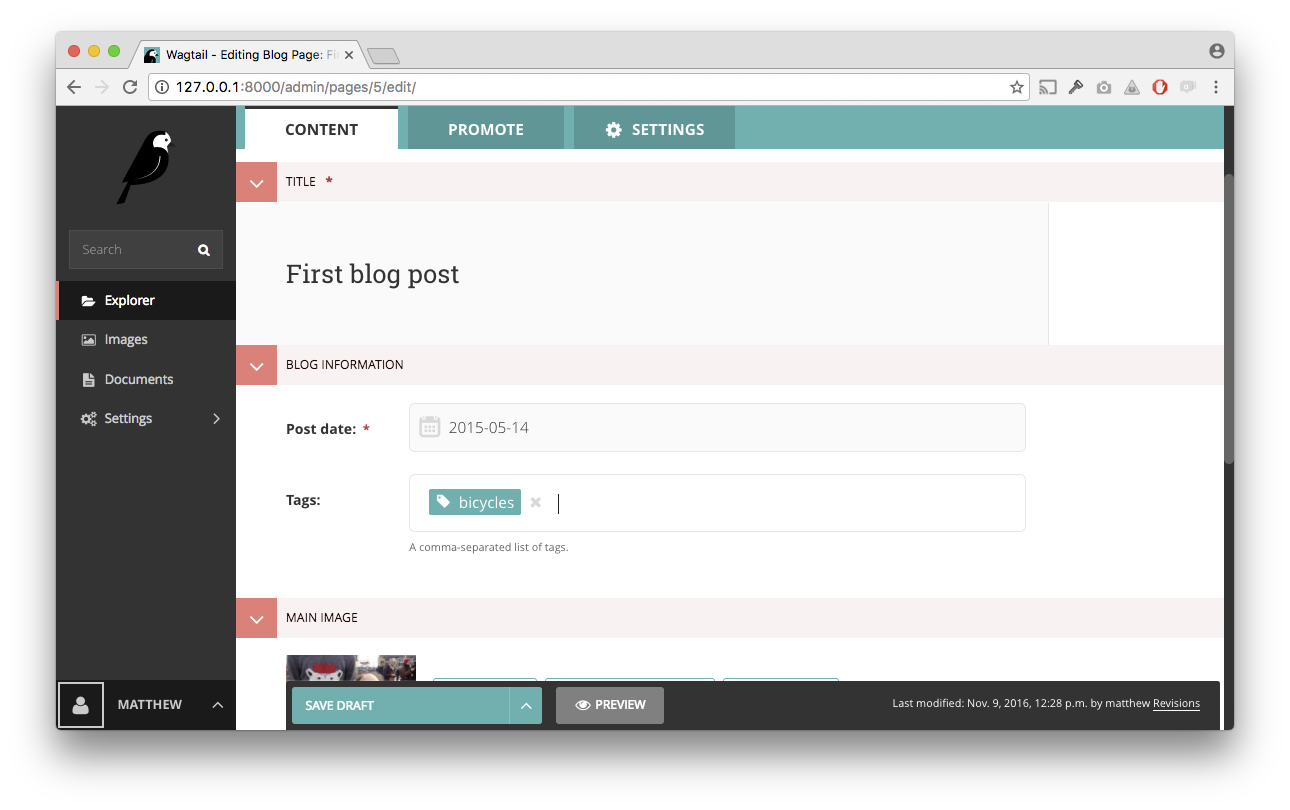
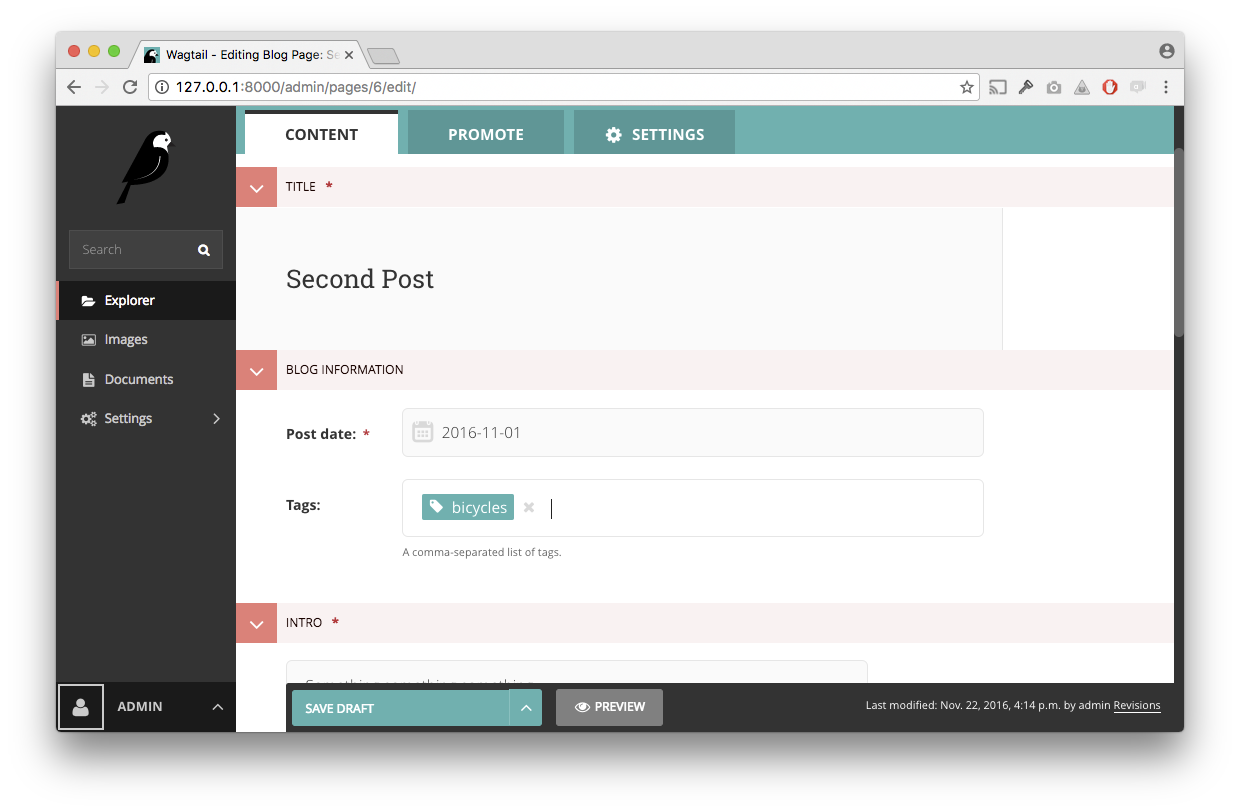
Add image gallery / InlinePanel section to tutorial

diff --git a/docs/getting_started/tutorial.rst b/docs/getting_started/tutorial.rst
@@ -80,7 +80,7 @@ Edit ``home/models.py`` as follows, to add a ``body`` field to the model:
         body = RichTextField(blank=True)
 
         content_panels = Page.content_panels + [
-            FieldPanel('body', classname="full")
+            FieldPanel('body', classname="full"),
         ]
 
 ``body`` is defined as ``RichTextField``, a special Wagtail field. You
@@ -236,7 +236,7 @@ Now we need a model and template for our blog posts. In ``blog/models.py``:
         content_panels = Page.content_panels + [
             FieldPanel('date'),
             FieldPanel('intro'),
-            FieldPanel('body', classname="full")
+            FieldPanel('body', classname="full"),
         ]
 
 Run ``python manage.py makemigrations`` and ``python manage.py migrate``.
@@ -311,7 +311,7 @@ Take another look at the guts of ``BlogIndexPage:``
 
 Every "page" in Wagtail can call out to its parent or children
 from its own position in the hierarchy. But why do we have to
-specify ``post.specific.intro`` rather than ``post.intro?``
+specify ``post.specific.intro`` rather than ``post.intro``?
 This has to do with the way we defined our model:
 
 ``class BlogPage(Page):``
@@ -390,31 +390,28 @@ Now try unpublishing one of your posts - it should disappear from the blog index
 page. The remaining posts should now be sorted with the most recently modified
 posts first.
 
-Image support
-~~~~~~~~~~~~~
+Images
+~~~~~~
 
-Wagtail provides support for images out of the box. To add them to
-your ``BlogPage`` model:
+Let's add the ability to attach an image gallery to our blog posts. While it's possible to simply insert images into the ``body`` rich text field, there are several advantages to setting up our gallery images as a new dedicated object type within the database - this way, you have full control of the layout and styling of the images on the template, rather than having to lay them out in a particular way within the rich text field. It also makes it possible for the images to be used elsewhere, independently of the blog text - for example, displaying a thumbnail on the blog index page.
+
+Add a new ``BlogPageGalleryImage`` model to ``models.py``:
 
 .. code-block:: python
 
     from django.db import models
 
-    from wagtail.wagtailcore.models import Page
+    from modelcluster.fields import ParentalKey
+
+    from wagtail.wagtailcore.models import Page, Orderable
     from wagtail.wagtailcore.fields import RichTextField
-    from wagtail.wagtailadmin.edit_handlers import FieldPanel
+    from wagtail.wagtailadmin.edit_handlers import FieldPanel, InlinePanel
     from wagtail.wagtailimages.edit_handlers import ImageChooserPanel
     from wagtail.wagtailsearch import index
 
+    # ...
 
     class BlogPage(Page):
-        main_image = models.ForeignKey(
-            'wagtailimages.Image',
-            null=True,
-            blank=True,
-            on_delete=models.SET_NULL,
-            related_name='+'
-        )
         date = models.DateField("Post date")
         intro = models.CharField(max_length=250)
         body = RichTextField(blank=True)
@@ -426,14 +423,41 @@ your ``BlogPage`` model:
 
         content_panels = Page.content_panels + [
             FieldPanel('date'),
-            ImageChooserPanel('main_image'),
             FieldPanel('intro'),
-            FieldPanel('body'),
+            FieldPanel('body', classname="full"),
+            InlinePanel('gallery_images', label="Gallery images"),
         ]
+
+
+    class BlogPageGalleryImage(Orderable):
+        page = ParentalKey(BlogPage, related_name='gallery_images')
+        image = models.ForeignKey(
+            'wagtailimages.Image', on_delete=models.CASCADE, related_name='+'
+        )
+        caption = models.CharField(blank=True, max_length=250)
+
+        panels = [
+            ImageChooserPanel('image'),
+            FieldPanel('caption'),
+        ]
+
 
 Run ``python manage.py makemigrations`` and ``python manage.py migrate``.
 
-Adjust your blog page template to include the image:
+There are a few new concepts here, so let's take them one at a time:
+
+Inheriting from ``Orderable`` adds a ``sort_order`` field to the model, to keep track of the ordering of images in the gallery.
+
+The ``ParentalKey`` to ``BlogPage`` is what attaches the gallery images to a specific page. A ``ParentalKey`` works similarly to a ``ForeignKey``, but also defines ``BlogPageGalleryImage`` as a "child" of the ``BlogPage`` model, so that it's treated as a fundamental part of the page in operations like submitting for moderation, and tracking revision history.
+
+``image`` is a ``ForeignKey`` to Wagtail's built-in ``Image`` model, where the images themselves are stored. This comes with a dedicated panel type, ``ImageChooserPanel``, which provides a pop-up interface for choosing an existing image or uploading a new one. This way, we allow an image to exist in multiple galleries - effectively, we've created a many-to-many relationship between pages and images.
+
+Specifying ``on_delete=models.CASCADE`` on the foreign key means that if the image is deleted from the system, the gallery entry is deleted as well. (In other situations, it might be appropriate to leave the entry in place - for example, if an "our staff" page included a list of people with headshots, and one of those photos was deleted, we'd rather leave the person in place on the page without a photo. In this case, we'd set the foreign key to ``blank=True, null=True, on_delete=models.SET_NULL``.)
+
+Finally, adding the ``InlinePanel`` to ``BlogPage.content_panels`` makes the gallery images available on the editing interface for ``BlogPage``.
+
+
+Adjust your blog page template to include the images:
 
 .. code-block:: html+django
 
@@ -447,20 +471,76 @@ Adjust your blog page template to include the image:
         <h1>{{ page.title }}</h1>
         <p class="meta">{{ page.date }}</p>
 
-        {% if page.main_image %}
-            {% image page.main_image width-400 %}
-        {% endif %}
-
         <div class="intro">{{ page.intro }}</div>
 
         {{ page.body|richtext }}
+
+        {% for item in page.gallery_images.all %}
+            <div style="float: left; margin: 10px">
+                {% image item.image fill-320x240 %}
+                <p>{{ item.caption }}</p>
+            </div>
+        {% endfor %}
+
+        <p><a href="{{ page.get_parent.url }}">Return to blog</a></p>
+
     {% endblock %}
 
-.. figure:: ../_static/images/tutorial/tutorial_6.png
+Here we use the ``{% image %}`` tag (which exists in the ``wagtailimages_tags`` library, imported at the top of the template) to insert an ``<img>`` element, with a ``fill-320x240`` parameter to indicate that the image should be resized and cropped to fill a 320x240 rectangle. You can read more about using images in templates in the :doc:`docs <../topics/images>`.
+
+.. figure:: ../_static/images/tutorial/tutorial_6.jpg
    :alt: A blog post sample
 
-You can read more about using images in templates in the
-:doc:`docs <../topics/images>`.
+Since our gallery images are database objects in their own right, we can now query and re-use them independently of the blog post body. Let's define a ``main_image`` method, which returns the image from the first gallery item (or ``None`` if no gallery items exist):
+
+.. code-block:: python
+
+    class BlogPage(Page):
+        date = models.DateField("Post date")
+        intro = models.CharField(max_length=250)
+        body = RichTextField(blank=True)
+
+        def main_image(self):
+            gallery_item = self.gallery_images.first()
+            if gallery_item:
+                return gallery_item.image
+            else:
+                return None
+
+        search_fields = Page.search_fields + [
+            index.SearchField('intro'),
+            index.SearchField('body'),
+        ]
+
+        content_panels = Page.content_panels + [
+            FieldPanel('date'),
+            FieldPanel('intro'),
+            FieldPanel('body', classname="full"),
+            InlinePanel('gallery_images', label="Gallery images"),
+        ]
+
+
+This method is now available from our templates. Update ``blog_index_page.html`` to include the main image as a thumbnail alongside each post:
+
+.. code-block:: html+django
+
+    {% load wagtailcore_tags wagtailimages_tags %}
+
+    ...
+
+    {% for post in page.get_children %}
+        {% with post=post.specific %}
+            <h2><a href="{% pageurl post %}">{{ post.title }}</a></h2>
+
+            {% with post.main_image as main_image %}
+                {% if main_image %}{% image main_image fill-160x100 %}{% endif %}
+            {% endwith %}
+
+            <p>{{ post.intro }}</p>
+            {{ post.body|richtext }}
+        {% endwith %}
+    {% endfor %}
+
 
 
 Tagging Posts
@@ -478,13 +558,13 @@ First, alter ``models.py`` once more:
 
     from django.db import models
 
-    from modelcluster.tags import ClusterTaggableManager
     from modelcluster.fields import ParentalKey
+    from modelcluster.tags import ClusterTaggableManager
     from taggit.models import TaggedItemBase
 
-    from wagtail.wagtailcore.models import Page
+    from wagtail.wagtailcore.models import Page, Orderable
     from wagtail.wagtailcore.fields import RichTextField
-    from wagtail.wagtailadmin.edit_handlers import FieldPanel, MultiFieldPanel
+    from wagtail.wagtailadmin.edit_handlers import FieldPanel, InlinePanel, MultiFieldPanel
     from wagtail.wagtailimages.edit_handlers import ImageChooserPanel
     from wagtail.wagtailsearch import index
 
@@ -494,36 +574,25 @@ First, alter ``models.py`` once more:
 
 
     class BlogPage(Page):
-        main_image = models.ForeignKey(
-            'wagtailimages.Image',
-            null=True,
-            blank=True,
-            on_delete=models.SET_NULL,
-            related_name='+'
-        )
         date = models.DateField("Post date")
         intro = models.CharField(max_length=250)
         body = RichTextField(blank=True)
         tags = ClusterTaggableManager(through=BlogPageTag, blank=True)
 
-        search_fields = Page.search_fields + [
-            index.SearchField('intro'),
-            index.SearchField('body'),
-        ]
+        # ...
 
         content_panels = Page.content_panels + [
             MultiFieldPanel([
                 FieldPanel('date'),
                 FieldPanel('tags'),
             ], heading="Blog information"),
-            ImageChooserPanel('main_image'),
             FieldPanel('intro'),
             FieldPanel('body'),
+            InlinePanel('gallery_images', label="Gallery images"),
         ]
 
 
-    class BlogIndexPage(Page):
-        intro = RichTextField(blank=True)
+Run ``python manage.py makemigrations`` and ``python manage.py migrate``.
 
 Note the new ``modelcluster`` and ``taggit`` imports, the addition of a new
 ``BlogPageTag`` model, and the addition of a ``tags`` field on ``BlogPage``.
